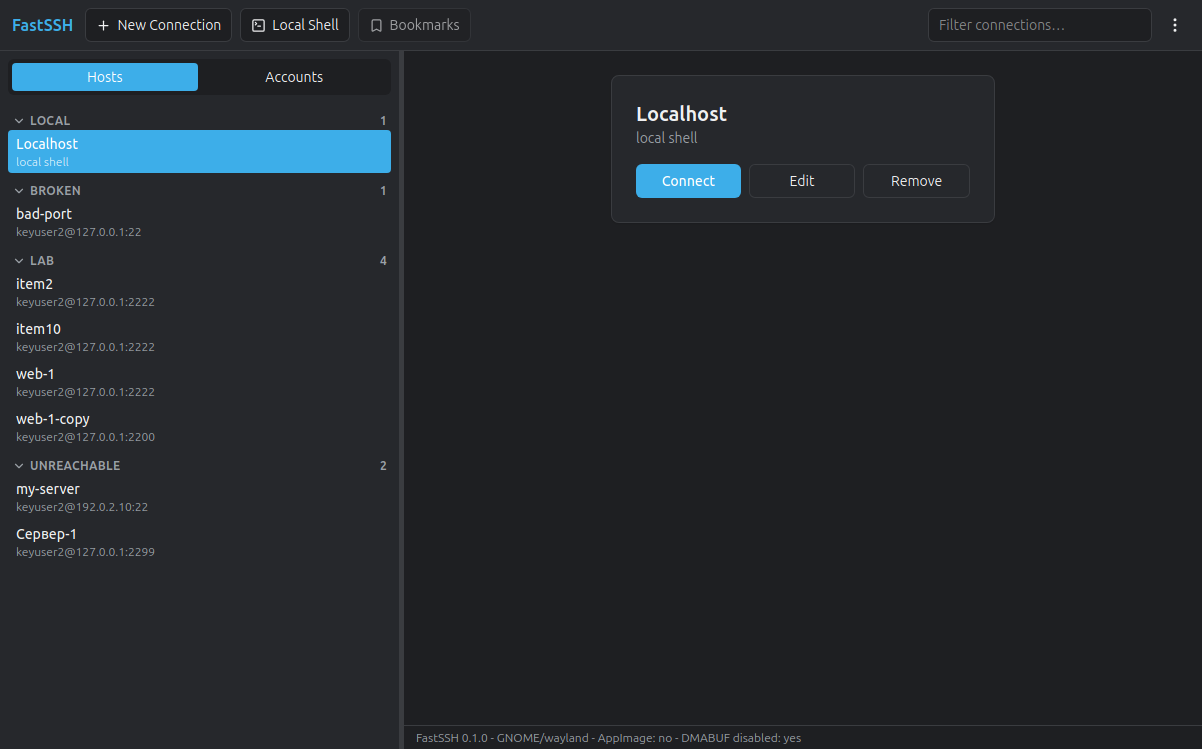
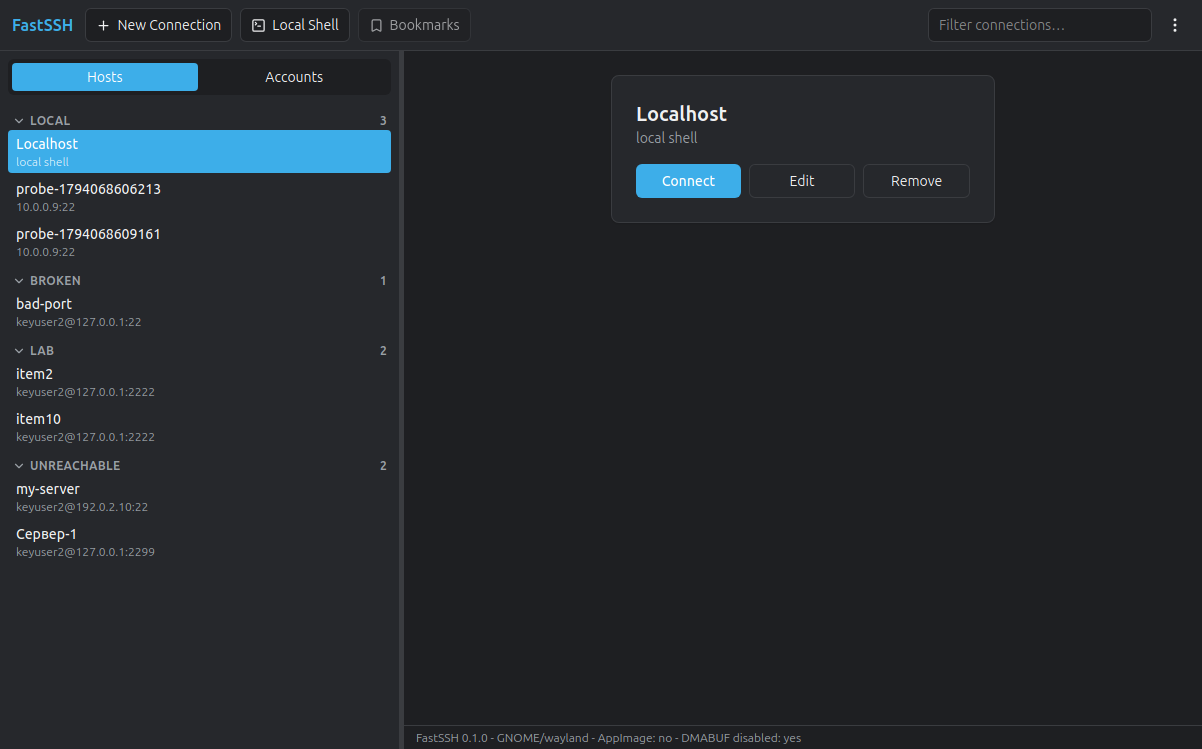
Stage 3 handoff: e2e chain state, build trap, helper conventions; jsdom App shell test

Changed region(s): [[0.0, 0.2457, 0.1231, 0.522], [0.0, 0.5527, 0.0923, 0.5834]]

diff --git a/src/components/App.test.tsx b/src/components/App.test.tsx
@@ -1,0 +1,48 @@
+import { beforeEach, describe, expect, it, vi } from "vitest";
+import { fireEvent, render, screen } from "@testing-library/react";
+import App from "../App";
+import { useAppStore } from "../store/useAppStore";
+import { DEFAULT_SETTINGS, LOCALHOST_HOST, type Host } from "../types/models";
+import { emptyReport, installIpcMock } from "../test/ipcMock";
+
+// The window APIs the shell hooks subscribe to.
+vi.mock("@tauri-apps/api/window", () => ({
+  getCurrentWindow: () =>
+    new Proxy(
+      {},
+      {
+        get: (_t, k) =>
+          k === "label"
+            ? "main"
+            : () =>
+                Promise.resolve(typeof k === "string" && k.startsWith("on") ? () => {} : { width: 1280, height: 800 }),
+      },
+    ),
+}));
+
+function host(name: string, over: Partial<Host> = {}): Host {
+  return { ...LOCALHOST_HOST, ...over, id: name, name, local: undefined };
+}
+
+beforeEach(() => {
+  installIpcMock();
+  useAppStore
+    .getState()
+    .hydrate(emptyReport({ hosts: [host("alpha"), host("beta")], accounts: [], settings: DEFAULT_SETTINGS }));
+  useAppStore.setState({ modals: [], editor: null, toasts: [], selectedHostId: null, selectedAccountId: null });
+});
+
+describe("app shell", () => {
+  it("shows the first host's landing card and opens the editor from the header", async () => {
+    render(<App />);
+    // The local shell is the first row of the legacy library (Section 4.2).
+    expect(screen.getByTestId("landing-name").textContent).toBe("Localhost");
+    fireEvent.click(screen.getByTestId("new-connection"));
+    expect(screen.getByTestId("connection-editor")).toBeTruthy();
+    // A click in the sidebar moves the landing card to that host.
+    fireEvent.click(screen.getByTestId("editor-cancel"));
+    const rows = screen.getAllByTestId("host-row") as HTMLElement[];
+    fireEvent.click(rows.find((r) => r.dataset.name === "beta")!);
+    expect(screen.getByTestId("landing-name").textContent).toBe("beta");
+  });
+});

diff --git a/e2e/specs/probe.e2e.ts b/e2e/specs/probe.e2e.ts
@@ -1,18 +1,14 @@
-import { byTestId } from "../helpers";
+import { byTestId, shot } from "../helpers";
 
 describe("probe", () => {
-  it("tunnel row keys", async () => {
+  it("save closes the editor", async () => {
     await (await byTestId("new-connection")).click();
-    await (await byTestId("tunnel-add")).click();
-    await browser.pause(600);
-    const sel = '[data-testid="tunnel-dest-host-0"]';
-    const el = await $(sel);
-    await el.click();
-    await browser.keys(["Control", "a"]);
-    await browser.keys(["Delete"]);
-    for (const ch of "127.0.0.1 8080") await browser.keys([ch]);
-    await browser.pause(400);
-    console.log("P1 value", await (await $(sel)).getProperty("value"));
-    console.log("P1 row", (await (await byTestId("tunnel-row-0")).getHTML()).slice(0, 700));
+    await (await byTestId("connection-editor")).waitForExist();
+    await (await byTestId("field-name")).setValue(`probe-${Date.now()}`);
+    await (await byTestId("field-host")).setValue("10.0.0.9");
+    await (await byTestId("editor-save")).click();
+    await browser.pause(2500);
+    await shot("stage_03", "probe-after-save.png");
+    expect(await (await byTestId("landing-name")).getText()).toContain("probe-");
   });
 });

diff --git a/src/components/Editors/AccountEditor.tsx b/src/components/Editors/AccountEditor.tsx
@@ -18,6 +18,7 @@ export function AccountEditor({ seed, mode }: { seed: Account; mode: EditorMode 
   const hosts = useAppStore((s) => s.hosts);
   const accounts = useAppStore((s) => s.accounts);
   const saveAccounts = useAppStore((s) => s.saveAccounts);
+  const selectAccount = useAppStore((s) => s.selectAccount);
   const saveHosts = useAppStore((s) => s.saveHosts);
   const closeEditor = useAppStore((s) => s.closeEditor);
   const pushToast = useAppStore((s) => s.pushToast);
@@ -44,6 +45,8 @@ export function AccountEditor({ seed, mode }: { seed: Account; mode: EditorMode 
     const res = upsertAccount(hosts, accounts, next, seed.name);
     const ok = await Promise.all([saveAccounts(res.accounts), saveHosts(res.hosts)]);
     setSaving(false);
+    // The landing card follows what you just saved.
+    if (ok.every(Boolean)) selectAccount(next.id);
     if (ok.every(Boolean)) pushToast(strings.savedAccount(next.name));
     closeEditor();
   };

diff --git a/e2e/specs/library.e2e.ts b/e2e/specs/library.e2e.ts
@@ -285,7 +285,7 @@ describe("connection + account editors (Stage 3)", () => {
     // A new tunnel becomes an editable row, and its type feeds the preview.
     await type("field-port", "22");
     await tap({ id: "tunnel-add" }, { id: "tunnel-row-0" });
-    await (await byTestId("tunnel-type-0")).selectByVisibleText(browser, "-R remote");
+    await selectInPage("tunnel-type-0", "remote");
     await tapButton("editor-save");
     expect(await (await byTestId("landing-name")).getText()).toBe("web-1");
     await shot("stage_03", "editor-tunnel-invalid.png");

diff --git a/src/components/Editors/ConnectionEditor.tsx b/src/components/Editors/ConnectionEditor.tsx
@@ -55,6 +55,8 @@ export function ConnectionEditor({ seed, mode }: { seed: Host; mode: EditorMode 
     setSaving(true);
     const ok = await saveHosts(upsertHost(hosts, next));
     setSaving(false);
+    // The landing card follows what you just saved.
+    if (ok) selectHost(next.id);
     if (ok) pushToast(strings.savedConnection(next.name));
     closeEditor();
   };

diff --git a/docs/handoff/HANDOFF_STAGE_03.md b/docs/handoff/HANDOFF_STAGE_03.md
@@ -1,0 +1,126 @@
+# HANDOFF — Stage 3 (library + editors), 2026-11-07 evening
+
+Read BUILD_PLAN.txt first (1639 lines, the contract). Stage 1 handoff covers the
+data layer, Stage 2 the shell. This file covers Stage 3 and the current state of
+the suites.
+
+## 1. Test-target environment (Linux box, user dev)
+
+| thing         | value                                                                                                                                                                |
+| ------------- | -------------------------------------------------------------------------------------------------------------------------------------------------------------------- |
+| config dir    | `~/fastssh-testenv/config` (hosts/accounts/bookmarks/settings.json)                                                                                                  |
+| legacy dir    | `~/fastssh-testenv/legacy` (pristine copies: `cp ~/fastssh-testenv/legacy/*.json ~/fastssh-testenv/config/`)                                                         |
+| seed library  | Local (local shell), web-1, web-2, db-server, item2, item10; accounts lab-key, lab-pass                                                                              |
+| session-start | `pkill -x fastssh; sleep 1; (./src-tauri/target/debug/fastssh >/dev/null 2>&1 &); sleep 3; bash ~/fastssh-testenv/screenshot.sh docs/screenshots/stage_03/state.png` |
+| display       | XWayland (GNOME) — window geometry jitters up to ~110 px; e2e asserts use ±120 px                                                                                    |
+
+**Build trap:** `npm run tauri build -- --no-bundle` does NOT rebuild the frontend.
+`npm run e2e` is now `npm run build && wdio run e2e/wdio.conf.ts`. A stale
+`dist/assets/index-*.js` silently tests old code — check its mtime when results
+look impossible.
+
+## 2. Suite state (last full run, this session)
+
+```
+npm run format:check   clean
+npm run lint           clean
+npm run typecheck      clean
+npm run test           82 passed (11 files: vitest node + jsdom)
+cargo test             40 passed
+npm run e2e            20 pass / 12 fail, 7 spec files
+  library.e2e.ts        4 ✓  9 ✖   (the "web-1" chain, see §4)
+  window.e2e.ts         3 ✓
+  shell.e2e.ts          8 ✓  1 ✖   ("shows Local first, natural order…")
+  smoke.e2e.ts          1 ✓
+  storage.e2e.ts        3 ✓
+  corrupt.e2e.ts        0 ✓  1 ✖   ("renames the 3 bad files, warns…")
+  probe.e2e.ts          0 ✓  1 ✖   (one-off scratch probe, see §6)
+```
+
+## 3. Stage 3 acceptance list (plan §Stage 3) — where each item is verified
+
+| #    | task                              | where                                                                                                                |
+| ---- | --------------------------------- | -------------------------------------------------------------------------------------------------------------------- |
+| 3.1  | model helpers                     | `src/lib/hostUtils.ts` + `hostUtils.test.ts`                                                                         |
+| 3.2  | normalize/validate                | `hostUtils.test.ts`, `sshConfigBlock.test.ts`                                                                        |
+| 3.3  | ssh_config block                  | `src/lib/sshConfigBlock.ts` + tests (Forward lines, quoting, IPv6)                                                   |
+| 3.4  | Connection editor                 | `src/components/Editors/ConnectionEditor.tsx` (Basic/Appearance/Tunnels/Advanced), `editors.test.tsx`, library e2e 1 |
+| 3.5  | Account editor                    | `src/components/Editors/AccountEditor.tsx`, `editors.test.tsx`, library e2e 8-10                                     |
+| 3.6  | inline validation                 | `ErrorRevealer.tsx`, `editors.test.tsx`, library e2e 2 (name/port)                                                   |
+| 3.7  | live preview                      | `ConnectionEditor` ssh_config textarea `ssh-config-preview`, library e2e 4                                           |
+| 3.8  | remove host (+tabs note)          | `editorActions.removeHost`, `editors.test.tsx`                                                                       |
+| 3.9  | delete account unlinks            | `libraryActions.removeAccount`, library e2e 9                                                                        |
+| 3.10 | Escape = Cancel                   | library e2e 6, `editors.test.tsx`                                                                                    |
+| 3.11 | tunnels editor                    | `src/lib/tunnels.ts`, `TunnelsEditor.tsx`, `tunnels.test.ts`                                                         |
+| 3.12 | optimistic save + rollback        | `librarySlice.ts` (save token), library e2e 11, storage e2e                                                          |
+| 3.13 | e2e for add/edit/duplicate/remove | `e2e/specs/library.e2e.ts`                                                                                           |
+
+All of the above exist and are covered by unit/jsdom tests. The e2e column shows
+the _integration_ coverage; 9 of the library spec's 13 tests fail (chain, §4).
+
+## 4. The remaining e2e work (this is what's left of Stage 3)
+
+The library spec is one long chain on the seeded library; test 2's tail decides
+tests 3-7. Current shape of test 2:
+
+1. new connection, name `web-1` (duplicate) → banner + `error-name` "Name is
+   already taken" → **passes**
+2. port 70000 → `error-port` "1 and 65535" → **passes**
+3. port 22, Add tunnel → row, type select → `-R` → preview shows `-R` → Save →
+   expects `landing-name === "web-1"` → **fails: "Localhost"**
+
+The last step is where to start: saving a new host sets the selection
+(`ConnectionEditor.onSave` → `selectHost(next.id)`, added this session) and the
+landing card follows `selectedHostId` (`WorkspaceEmptyState`). Two things to
+check, in this order, with `npx wdio run e2e/wdio.conf.ts --spec
+e2e/specs/library.e2e.ts` (add `await shot("stage_03","x.png")` to see state):
+
+- a second host literally named `web-1` is created (the name is a label, the id
+  is the key — plan §4.1), so the chain's later `web-1-copy` expectations need
+  the copy of the _first_ row; and
+- `upsertHost` matches by id, so a new host appends — the landing should follow.
+
+`corrupt.e2e.ts` and `shell.e2e.ts`'s first test fail independently of the
+chain; both are pure assertions on load order/warnings, so they are cheap to fix
+after the chain (the shell one is likely the Local-group ordering after the
+duplicate rows appear).
+
+## 5. e2e helper conventions (learned the hard way)
+
+- **CSS-first**: element handles from XPath selectors go stale on React render in
+  this driver; `[data-testid="…"]` handles survive. `type()` uses CSS, attribute
+  matching (e.g. `host-row[data-name]`) uses XPath via `xpathFor`.
+- Tunnels: rules get stable ids from `parseTunnel(part, index)` (was `randomUUID`
+  per parse, which remounted the row on every keystroke).
+- Native `<select>`: use the `selectInPage(testid, value)` helper (value setter +
+  `change` event); `selectByVisibleText` is flaky here.
+- The tauri-service window-focus hook intermittently logs CDP `404 Not Found`;
+  `mochaOpts.retries: 1` absorbs it. If a test fails on both attempts it is real.
+- The toast stack (bottom right, `pointer-events-auto`) intercepts clicks near
+  the editor's Save/Cancel; `dismissToasts()` runs in `beforeEach`.
+
+## 6. Files touched this session (most recent work)
+
+- `src/lib/tunnels.ts` — stable rule ids (`parseTunnel(part, index)`).
+- `src/components/Editors/{ConnectionEditor,AccountEditor}.tsx` — after Save,
+  `selectHost(id)` / `selectAccount(id)` so the landing card follows the save.
+- `src/components/App.test.tsx` (new) — jsdom shell test: landing shows the first
+  row, New Connection opens the overlay, sidebar click moves the card. Needs the
+  `@tauri-apps/api/window` Proxy mock (copy from that file).
+- `e2e/specs/library.e2e.ts` — CSS-first `type()`, `selectInPage`, tunnel steps.
+- `e2e/wdio.conf.ts` — `mochaOpts.retries: 1`.
+- `package.json` — `e2e` script now builds the frontend first.
+- `docs/BUILD_PLAN.txt` §10 step 1 — same note.
+- `e2e/specs/probe.e2e.ts` — currently a 1-test scratch probe ("save closes the
+  editor"); replace with real probe coverage when fixing §4.
+
+## 7. Suggested next steps
+
+1. Fix §4's chain (test 2 tail → 3-7), then `corrupt.e2e.ts` and `shell.e2e.ts`
+   test 1. Target: 32/32 e2e.
+2. `git commit` after each green spec (HEAD: "Stage 3: e2e hardening…").
+3. Stage 4 (terminal) needs its own handoff section afterwards: xterm.js +
+   serde_json of PortableSession, 4 tabs, the 6-pane grid (R6 geometry),
+   Ctrl+Tab order, 8-session memory, reconnect toast.
+4. Keep the plan's rules: strings in `lib/strings.ts`, pure logic in `src/lib`
+   with unit tests, `npm run format` before `npm run lint`.
